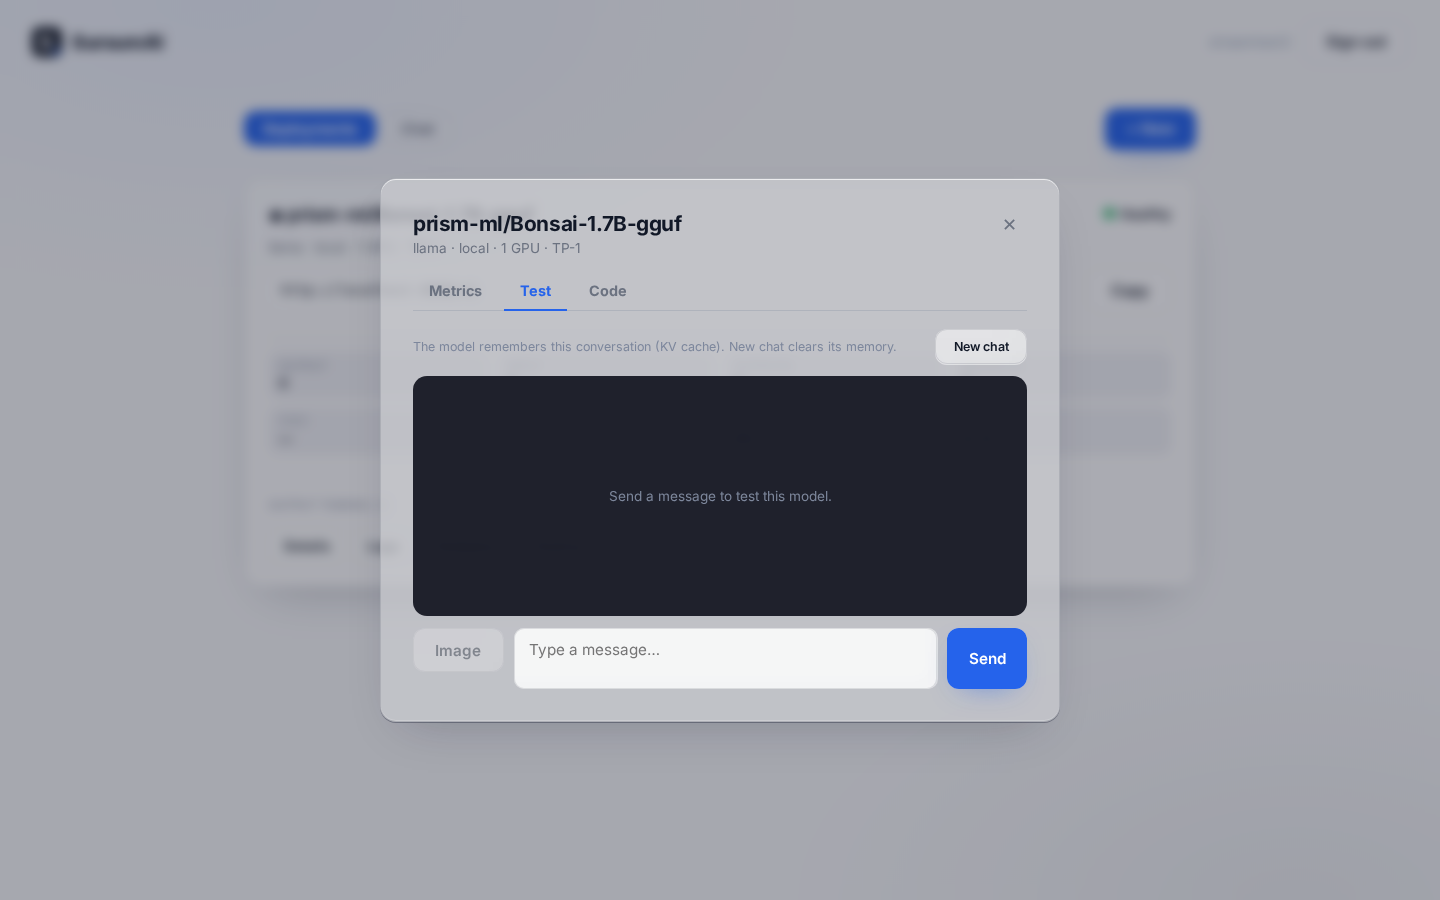
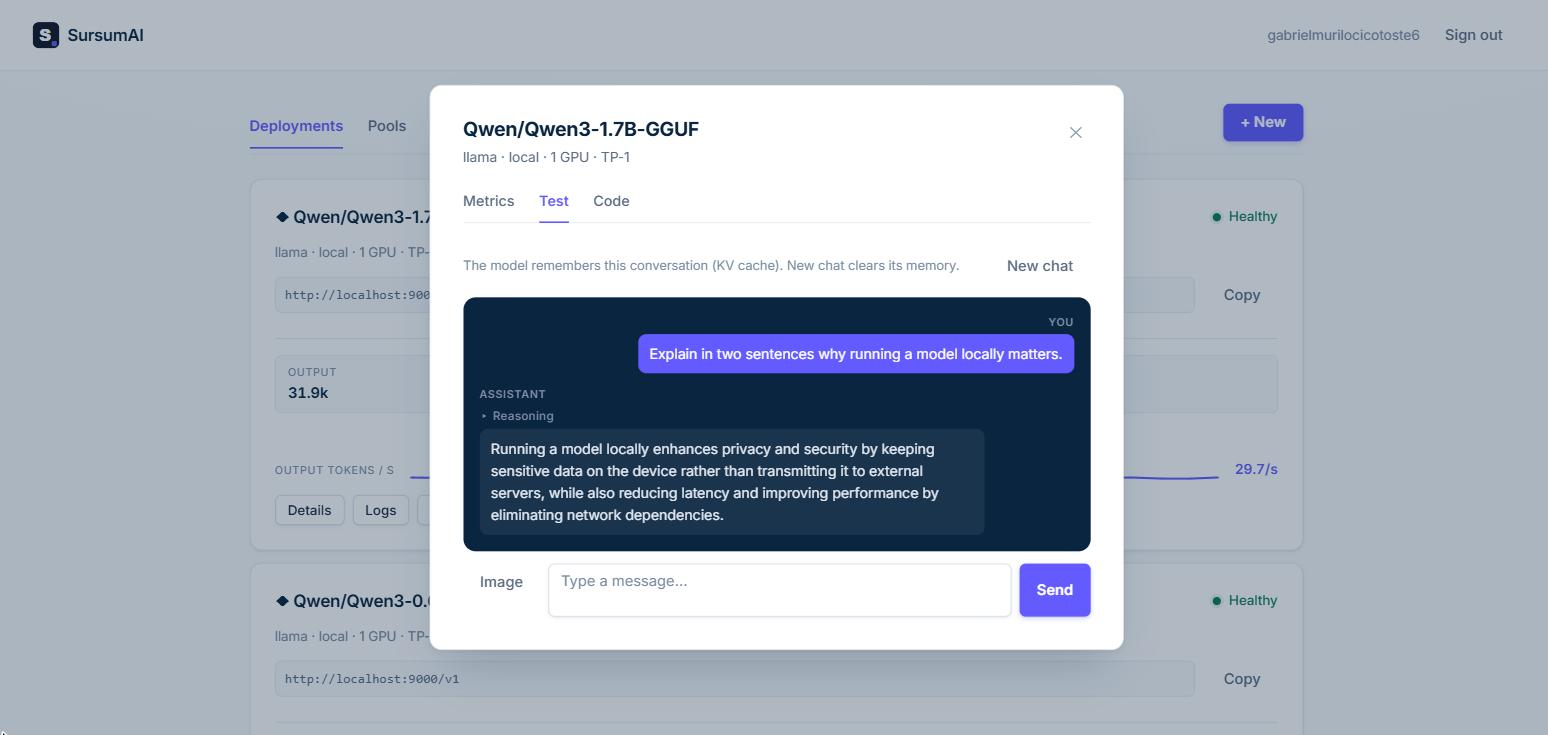
README com screenshots novos, de modelos rodando de verdade
As imagens mostravam a UI antiga de vidro. As novas são de Qwen3-0.6B e
Qwen3-1.7B rodando numa GPU de 6 GB, com tráfego real — as métricas, a
sparkline e a etiqueta de roteamento são o que o app mostra, não montagem.
Duas imagens novas: a aba Code e a seção do benchmark.

O README também corrige uma contradição (dizia em um lugar que NVIDIA sem
Docker usa CUDA nativo e em outro que cai pra CPU — o certo é o primeiro),
explica o offload automático (um 8B roda em 6 GB, dividido) e ganha três
linhas no troubleshooting: timeout de modelo que raciocina, pool "not
routing" e GPU parada em versões antes da 0.8.2.

bench/ ganha os scripts que montam a cena das fotos (stage_demo, demo_traffic,
cleanup_demo) e o que roda o snippet de verdade contra a API (check_snippet).

Claude-Session: https://claude.ai/code/session_014rNcLF2f5QiP6HrkPgevTw

diff --git a/bench/stage_demo.py b/bench/stage_demo.py
@@ -1,0 +1,42 @@
+#!/usr/bin/env python3
+"""Put real data on screen for the README screenshots.
+
+Deploys two small models, groups them in a pool and sends a few messages so
+the dashboard has metrics, sparklines and routed answers to show. Nothing here
+is benchmark data; the deployments are disposable.
+"""
+import sys
+import time
+from pathlib import Path
+
+sys.path.insert(0, str(Path(__file__).resolve().parent))
+import client  # noqa: E402
+
+client.utf8_output()
+MODELS = ["Qwen/Qwen3-0.6B-GGUF", "Qwen/Qwen3-1.7B-GGUF"]
+
+ids = []
+for m in MODELS:
+    d = client.deploy(m, max_model_len=4096, max_tokens=1024)
+    print("deploying", m, d["id"])
+    ids.append(d["id"])
+for i in ids:
+    client.wait_healthy(i)
+
+pool = client.call("POST", "/pools", {"name": "math-team", "model_ids": ids,
+                                      "mode": "escalation"})
+print("pool", pool["id"])
+
+questions = [
+    ("hi! what can you help me with?", ids[0]),
+    ("Janet has 16 eggs, eats 3 and bakes with 4. She sells the rest at $2. How much does she make?", ids[0]),
+    ("Write a haiku about local AI.", ids[1]),
+    ("A train leaves at 14:00 at 80 km/h and another at 15:00 at 120 km/h. When does the second catch up?", ids[1]),
+]
+for q, did in questions:
+    started = time.time()
+    client.call("POST", f"/deploys/{did}/chat",
+                {"messages": [{"role": "user", "content": q}], "max_tokens": 600},
+                timeout=600)
+    print(f"  chat {did[:8]} {time.time() - started:.0f}s")
+print("ready")

diff --git a/bench/check_snippet.py b/bench/check_snippet.py
@@ -1,0 +1,25 @@
+#!/usr/bin/env python3
+"""The Details → Code snippet, run for real: OpenAI client, absolute base URL,
+model addressed by deploy id and by pool name."""
+import json
+import sys
+import urllib.request
+from pathlib import Path
+
+sys.path.insert(0, str(Path(__file__).resolve().parent))
+import client  # noqa: E402
+
+base = "http://localhost:8001/v1"
+deploys = [d for d in client.call("GET", "/deploys") if d["status"] == "healthy"]
+pools = client.call("GET", "/pools")
+targets = [deploys[0]["id"]] + [p["name"] for p in pools if p["name"] == "math-team"]
+for model in targets:
+    req = urllib.request.Request(
+        f"{base}/chat/completions", method="POST",
+        data=json.dumps({"model": model, "max_tokens": 200,
+                         "messages": [{"role": "user", "content": "Say OK."}]}).encode())
+    req.add_header("Content-Type", "application/json")
+    req.add_header("Authorization", f"Bearer {client.token()}")
+    with urllib.request.urlopen(req, timeout=300) as r:
+        out = json.loads(r.read())
+    print(f"model={model[:16]:<16} -> {r.status}  served by: {out.get('model')}")

diff --git a/bench/demo_traffic.py b/bench/demo_traffic.py
@@ -1,0 +1,20 @@
+#!/usr/bin/env python3
+"""Keep a little traffic on the demo deployments so screenshots show live
+metrics. Runs for a few minutes and stops on its own."""
+import itertools, sys, time
+from pathlib import Path
+sys.path.insert(0, str(Path(__file__).resolve().parent))
+import client  # noqa: E402
+
+deploys = [d["id"] for d in client.call("GET", "/deploys") if d["status"] == "healthy"]
+prompts = ["Explain what a GPU does in two sentences.", "Give me three names for a cat.",
+           "What is 17 * 23? Show the steps.", "Summarise why local AI matters."]
+end = time.time() + float(sys.argv[1] if len(sys.argv) > 1 else 420)
+for did, q in zip(itertools.cycle(deploys), itertools.cycle(prompts)):
+    if time.time() > end:
+        break
+    try:
+        client.call("POST", f"/deploys/{did}/chat",
+                    {"messages": [{"role": "user", "content": q}], "max_tokens": 300}, timeout=300)
+    except client.BenchError as e:
+        print("skip:", e)

diff --git a/bench/cleanup_demo.py b/bench/cleanup_demo.py
@@ -1,0 +1,20 @@
+#!/usr/bin/env python3
+"""Remove what bench/stage_demo.py created for the README screenshots: the
+demo pool and its two deployments. Pools and deployments the user made are
+left alone."""
+import sys
+from pathlib import Path
+
+sys.path.insert(0, str(Path(__file__).resolve().parent))
+import client  # noqa: E402
+
+client.utf8_output()
+demo_models = {"Qwen/Qwen3-0.6B-GGUF", "Qwen/Qwen3-1.7B-GGUF"}
+for pool in client.call("GET", "/pools"):
+    if pool["name"] in ("math-team", "fast-and-smart"):
+        client.call("DELETE", f"/pools/{pool['id']}")
+        print("pool removed:", pool["name"])
+for d in client.call("GET", "/deploys"):
+    if d["spec"]["model"] in demo_models:
+        client.destroy(d["id"])
+        print("deploy removed:", d["spec"]["model"])

diff --git a/README.md b/README.md
@@ -43,14 +43,18 @@ That's the whole product: one URL, one key, and the model name.
 
 ## Screenshots
 
+Real deployments on a 6 GB NVIDIA GPU — Qwen3-0.6B and Qwen3-1.7B, live.
+
 | | |
 |---|---|
 | ![Landing](docs/screenshots/01-landing.png) | ![Dashboard](docs/screenshots/02-dashboard.png) |
-| **Landing** — one-click self-hosting | **Dashboard** — your deployments, health and metrics |
-| ![Detail metrics](docs/screenshots/03-detail-metrics.png) | ![Playground](docs/screenshots/04-playground.png) |
-| **Details** — metrics, test and code snippets | **Playground** — chat with the model (vision supported) |
-| ![Chat](docs/screenshots/05-chat.png) | ![Pool modal](docs/screenshots/06-pool-modal.png) |
-| **Chat** — the router picks the best model per message | **Pool** — team up 2+ models; the router decides between them |
+| **Landing** — one-click self-hosting | **Dashboard** — every deployment with its health, throughput and a live tokens/s chart |
+| ![Details](docs/screenshots/03-detail-metrics.png) | ![Code](docs/screenshots/07-code.png) |
+| **Details** — the metrics this runtime actually reports, nothing padded with dashes | **Code** — Python, JavaScript and curl, ready to paste: your URL, your model |
+| ![Test](docs/screenshots/04-playground.png) | ![Router chat](docs/screenshots/05-chat.png) |
+| **Test** — talk to one model; its reasoning stays folded until you open it | **Playground** — send to a pool and every answer says which model served it and why |
+| ![New pool](docs/screenshots/06-pool-modal.png) | ![Benchmark](docs/screenshots/08-benchmark.png) |
+| **Pool** — 2+ models, cheapest first; the router decides who answers | **Benchmark** — the router measured, including what didn't work ([method](bench/README.md)) |
 
 ---
 
@@ -122,6 +126,9 @@ Or double-click the **SursumAI** icon in your app menu / Windows desktop.
   otherwise. The selector is visible in the modal, but you never have to touch it.
 - **Model format** — the provider list shows **safetensors** models (vLLM) and
   **GGUF** models (`llama-server`), already filtered by the chosen runtime.
+- **GPU offload** — as many layers as your card holds go on the GPU. A model
+  bigger than your VRAM is split between GPU and CPU instead of refusing to
+  load: the benchmark ran a Qwen3-8B on a 6 GB card this way.
 - **Ports and internal keys** — allocated and hidden automatically.
 - **Vision** — if the model accepts images (Qwen-VL, Bonsai, …), the **Test**
   tab grows an **Image** button so you can send a photo with your text.
@@ -390,15 +397,16 @@ command exits non-zero on failure, so it's safe to use in scripts.
 
 ## Docker (optional, recommended for GPU)
 
-vLLM runs inside Docker. The installer can set it up for you, or do it manually:
+vLLM runs inside Docker, and with an NVIDIA GPU so does `llama-server` (the
+CUDA build). The installer can set Docker up for you, or do it manually:
 
 1. Install **Docker Desktop**: https://www.docker.com/products/docker-desktop/
 2. On Windows, open Docker settings and enable WSL integration.
 3. Run `sursumai` again.
 
-**No Docker?** SursumAI still works with the native `llama-server`. If you have
-an NVIDIA GPU but no Docker, deployments fall back to CPU and say so — install
-Docker later to unlock the GPU.
+**No Docker?** SursumAI still works with the native `llama-server`. With an
+NVIDIA GPU it uses a native CUDA build (it looks for `libcuda`), so the GPU is
+still used; without one it runs on the CPU. Only vLLM strictly needs Docker.
 
 ## Troubleshooting
 
@@ -407,7 +415,10 @@ Docker later to unlock the GPU.
 | **"Could not reach server"** | The services aren't running. Run `sursumai`. |
 | **Deploy stuck in `failed`** | Open **Logs** on the deployment card — the message explains the problem in plain language. |
 | **Model not showing up** | Some Hugging Face models require accepting a license. Use one of the listed models; they're already cleared. |
-| **Port already in use** | The preflight names the port and the range. A deployment takes the lowest free port in 9000–9099. |
+| **Port already in use** | The preflight names the port and the range. A deployment takes the lowest free port in 9000–9099. A port freed a moment ago is waited for (up to 90 s, `SURSUMAI_PORT_WAIT`). |
+| **"The model took longer than 900s to answer"** | Reasoning models can think for minutes on a slow machine. The model is still running; raise `SURSUMAI_CHAT_TIMEOUT` and restart. |
+| **A pool says "not routing"** | Fewer than two of its models are running. The card lists which ones are down or removed — redeploy them, or edit the pool. |
+| **Slow on an NVIDIA machine** | Open **Logs**: the image line should read `llama.cpp:server-cuda`. Versions before 0.8.2 ran GPU deployments on the CPU — run `sursumai update`. |
 
 Service logs live in `/tmp/opencode/{agent,central,web}.log`; deployment logs in
 `sursumai-logs/`.
